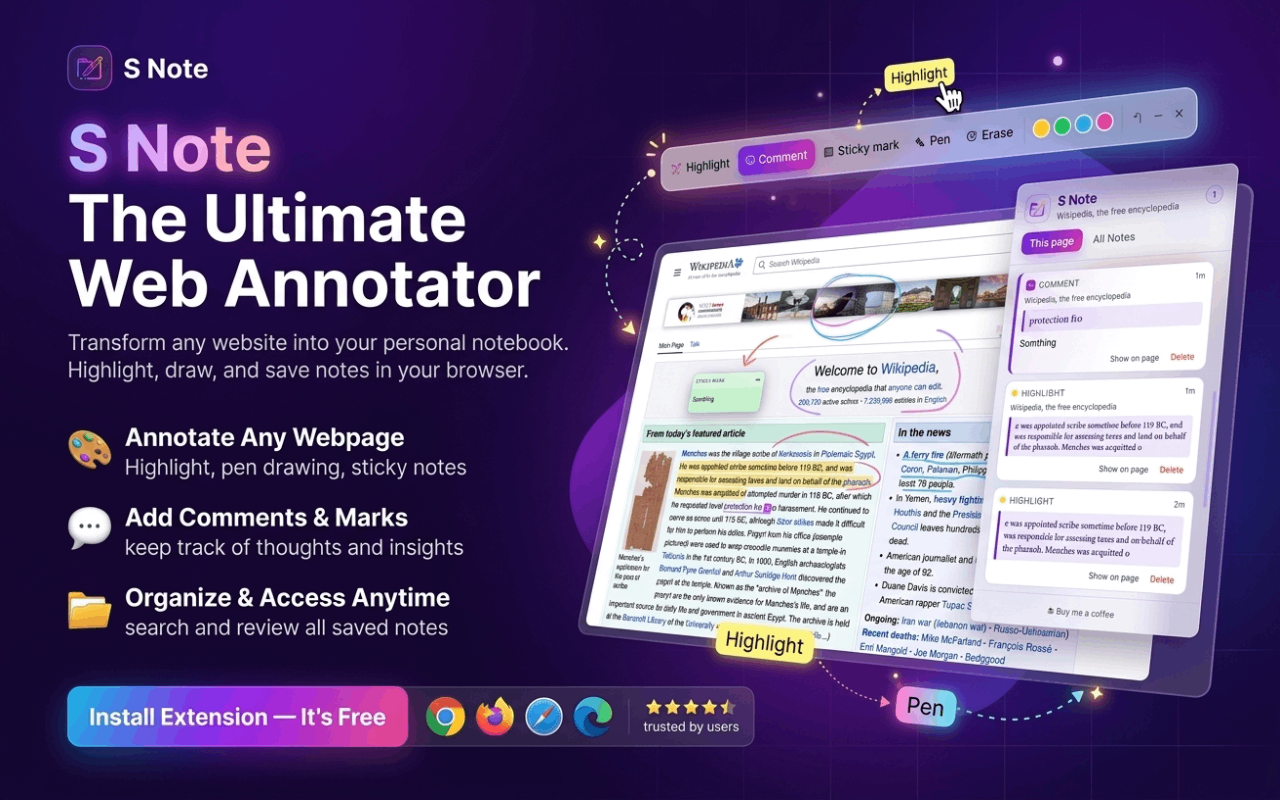
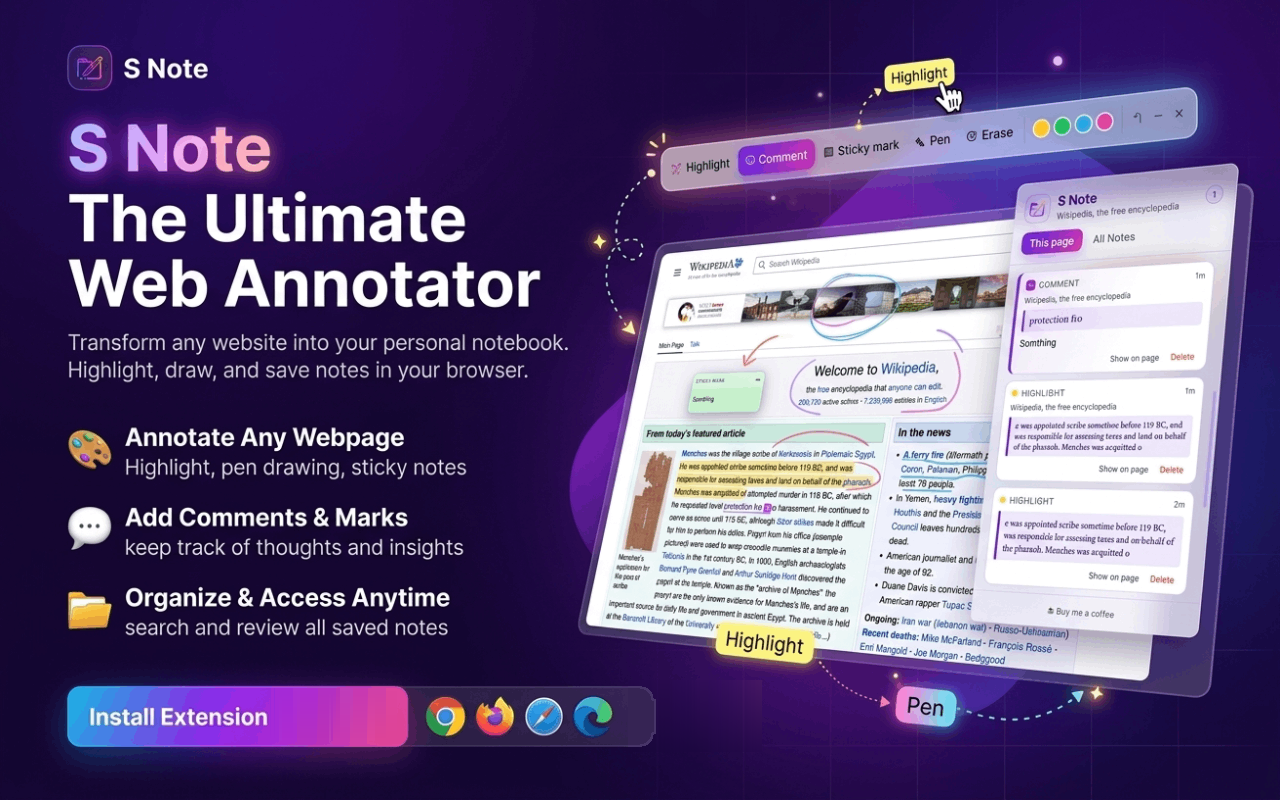
fix(store): remove star rating and promo keywords from screenshots
Chrome Web Store rejected the listing (Red Nickel) because Banner2 showed a
5-star rating with "trusted by users", mimicking ranking/performance. Also
strip the flagged promo keywords from the media assets:

- Banner2: drop the star rating, "trusted by users" divider and shorten the
  browser-support pill; drop "— It's Free" from the CTA (now "Install Extension").
- Banner1: drop the "Now Available" status text.
- Document the policy in store/listing.md so future assets avoid it.

No extension code changed; the violation was in the store media only.

Changed region(s): [[0.5, 0.8438, 0.5938, 0.9375], [0.2188, 0.875, 0.3125, 0.9062]]

diff --git a/store/listing.md b/store/listing.md
@@ -77,6 +77,11 @@ Three 1280×800 screenshots are included in the repo and are ready to upload
 Optional extras to reach Chrome's five-image maximum: the Settings tab
 (toggles + support card) and the pen tool in action.
 
+> Policy note (Chrome "Red Nickel"): screenshots must not mimic ranking,
+> performance, or store status. Do not include star ratings, review counts, or
+> badges/text such as "free", "premium", "recommended", "#1", "new", or
+> "now available".
+
 ## Promotional assets (optional)
 
 - Chrome small promo tile: 440×280.
